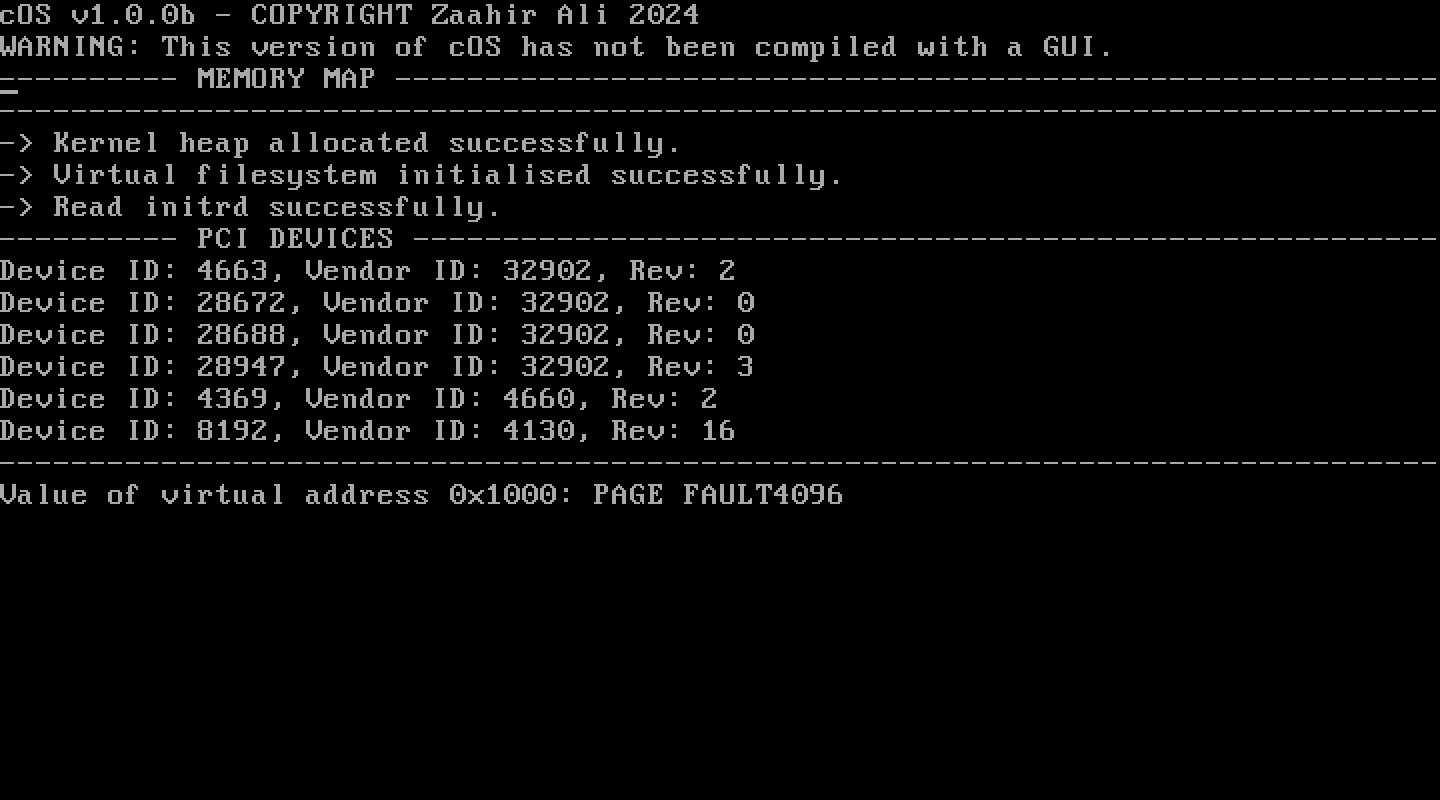
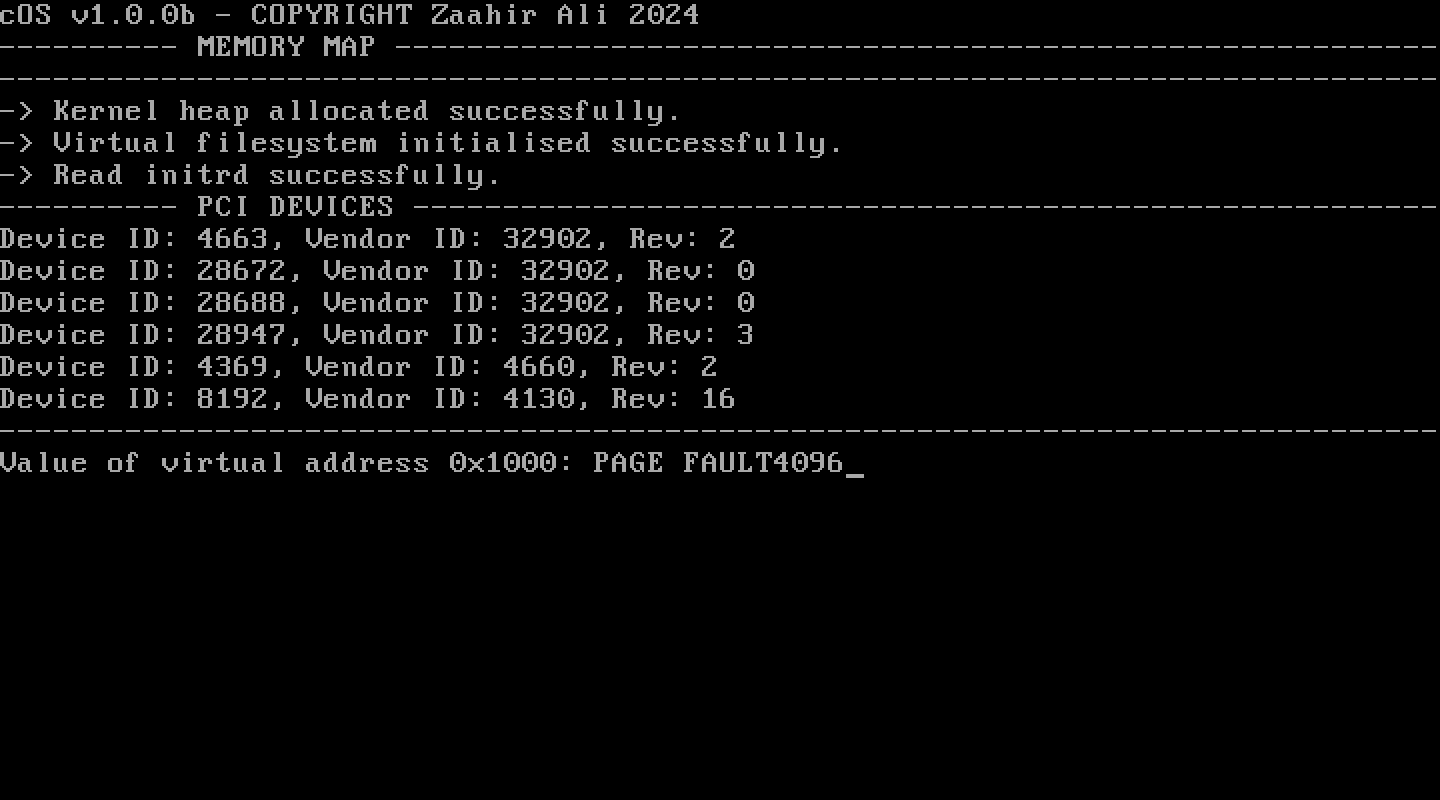
Remove the GUI warning and update the test evidence

diff --git a/src/kernel/kernel.cpp b/src/kernel/kernel.cpp
@@ -78,7 +78,6 @@ extern "C" void pre_kernel(const Multiboot::multiboot_info* multibootStructure, 
 {
     clear_screen();
     printf("cOS v1.0.0b - COPYRIGHT Zaahir Ali 2024\n");
-    printf("WARNING: This version of cOS has not been compiled with a GUI.\n");
     Multiboot::MultibootManager::instance().set_structure((Multiboot::multiboot_info*)(Memory::VirtualAddress(Memory::PhysicalAddress((Multiboot::multiboot_info*)multibootStructure))).get());
     printf("---------- MEMORY MAP ----------------------------------------------------------");
     Memory::MemoryManager::instance().protect_physical_regions(Memory::VirtualAddress(reinterpret_cast<uint64_t>(&end_of_kernel_image)).get_low_physical());

diff --git a/README.md b/README.md
@@ -658,9 +658,9 @@ It is the operating system’s responsibility to properly initialise the process
   <tr>
    <td>1.8 
    </td>
-   <td>Hardware interrupts call the interrupt handler. This is tested by sending keyboard scan-codes. 
+   <td>Hardware interrupts call the interrupt handler. This is tested by typing in the shell, which receives each key from the keyboard interrupt handler. 
    </td>
-   <td>The keyboard scan-codes are printed on the screen. 
+   <td>The typed characters are printed on the screen. 
    </td>
   </tr>
   <tr>
@@ -1019,9 +1019,9 @@ printf(*(uint8_t*)Memory::VirtualAddress(Memory::PhysicalAddress(0x1000)).get())
 ...
 CS =0008 0000000000000000 ffffffff 00af9a00 DPL=0 CS64 [-R-]
 SS =0000 0000000000000000 ffffffff 00c09300 DPL=0 DS   [-WA]
-TR =0030 ffffff8000122000 00000068 00008900 DPL=0 TSS64-avl
-GDT=     ffffff8000122068 0000003f
-IDT=     ffffff8000123060 00000fff
+TR =0030 ffffff800012e000 00000068 00008900 DPL=0 TSS64-avl
+GDT=     ffffff800012e068 0000003f
+IDT=     ffffff800012f060 00000fff
 ```
 
 <p align="center">
@@ -1073,9 +1073,9 @@ printf(*(uint8_t*)0x1000);
 ```
 (qemu) info registers
 ...
-GDT=     ffffff8000122068 0000003f
-IDT=     ffffff8000123060 00000fff
-CR0=80000011 CR2=0000000000000000 CR3=0000000000137000 CR4=00000020
+GDT=     ffffff800012e068 0000003f
+IDT=     ffffff800012f060 00000fff
+CR0=80000011 CR2=0000000000000000 CR3=0000000000145000 CR4=00000020
 ```
 
 <p align="center">
@@ -1094,11 +1094,11 @@ pic0: irr=00 imr=f8 isr=00 hprio=0 irq_base=20 rr_sel=0 elcr=00 fnm=0
 </p>
 
 <p align="center">
-<img width="700" src="docs/evidence/test-1.8.png" alt="Screenshot of keyboard scan-codes being printed for test 1.8.">
+<img width="700" src="docs/evidence/test-1.8.png" alt="Screenshot of characters typed into the shell for test 1.8.">
 </p>
 
 <p align="center">
-<i>Screenshot of keyboard scan-codes being printed for test 1.8. </i>
+<i>Screenshot of characters typed into the shell for test 1.8. </i>
 </p>
 
 <p align="center">
